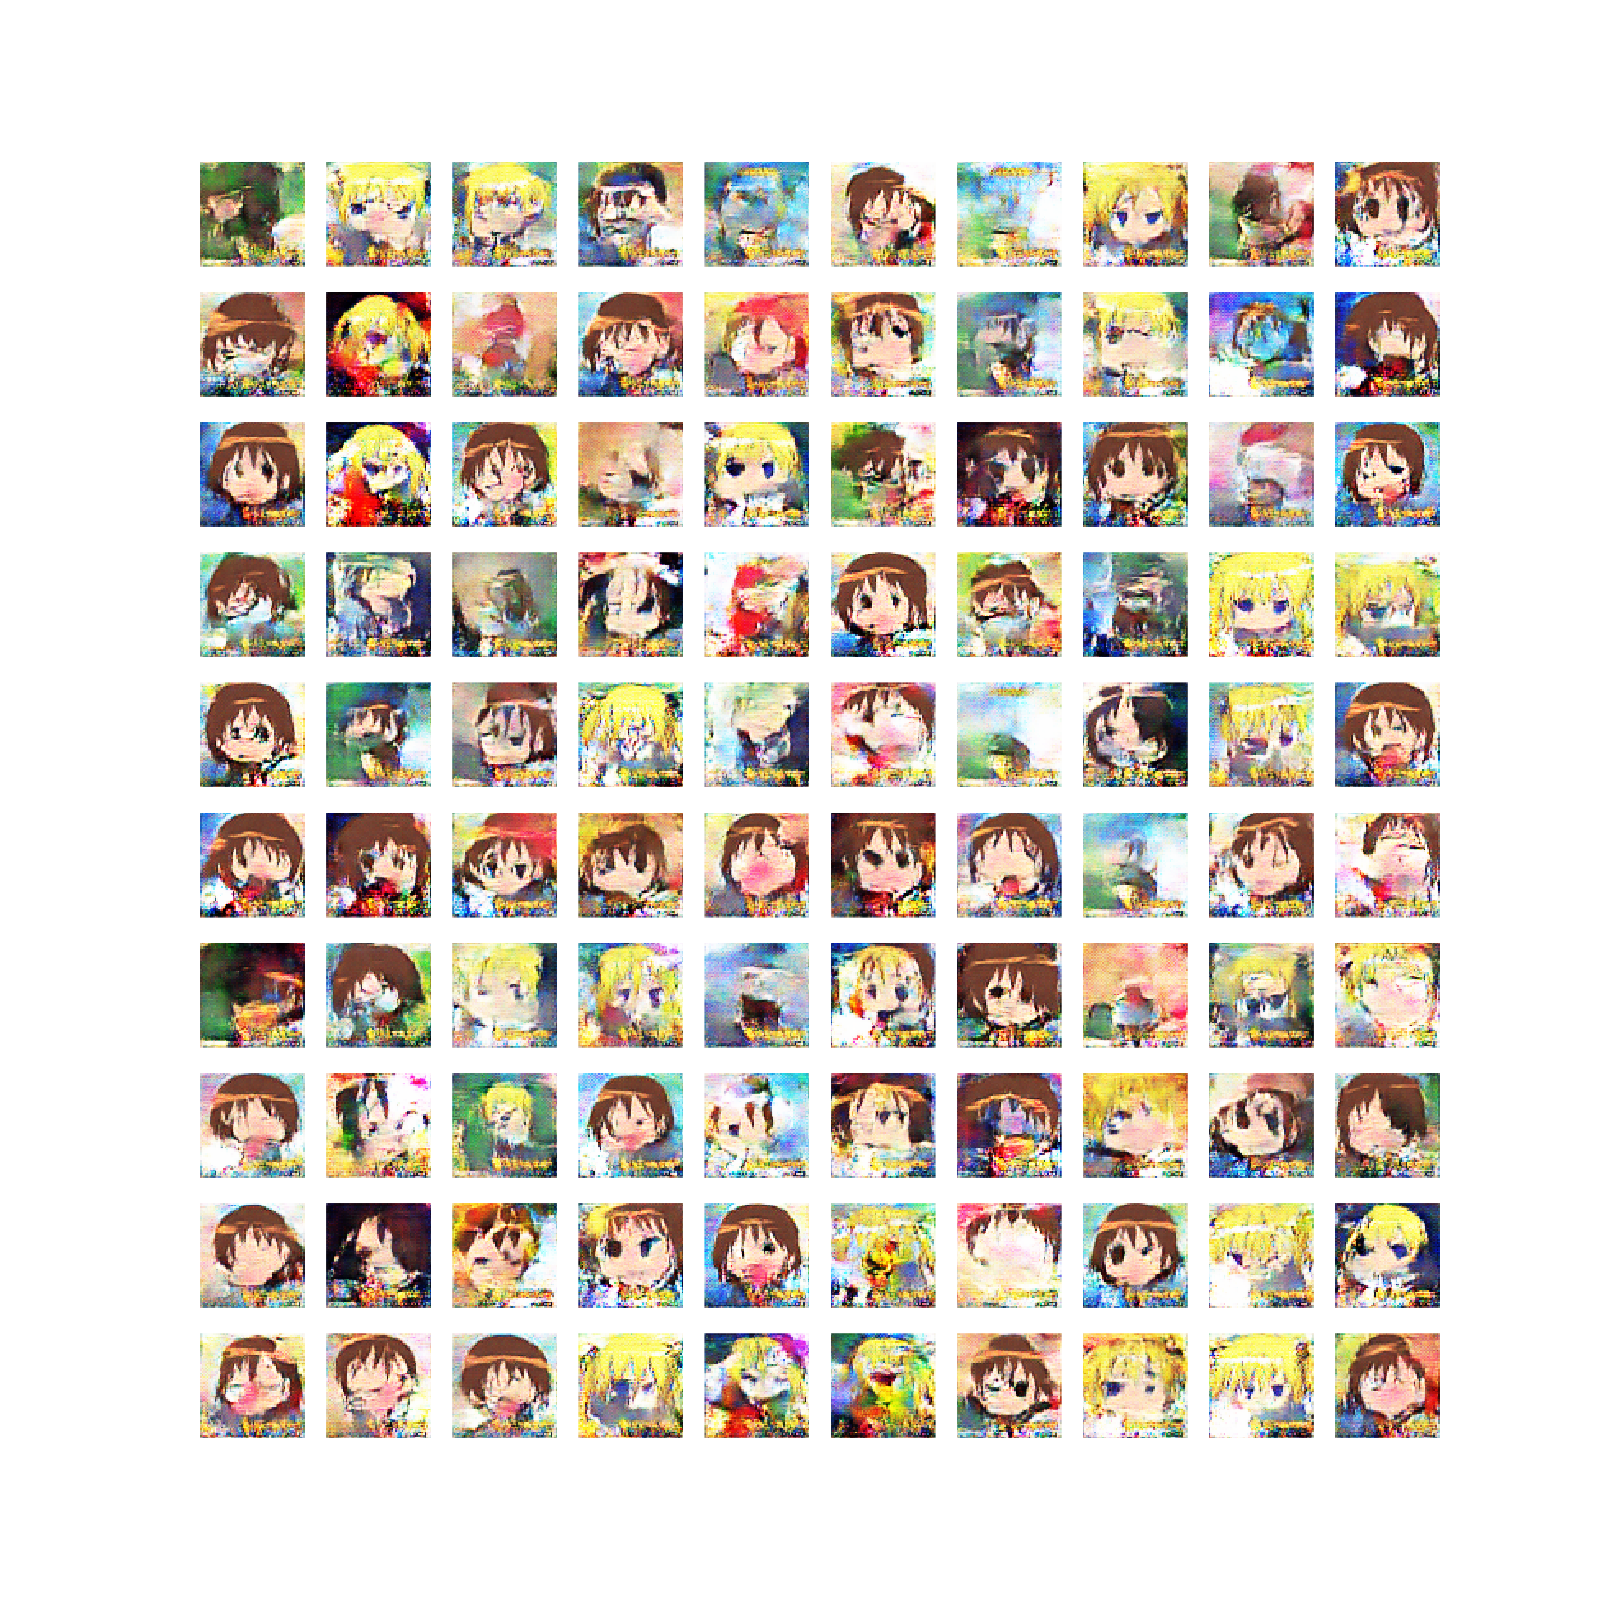
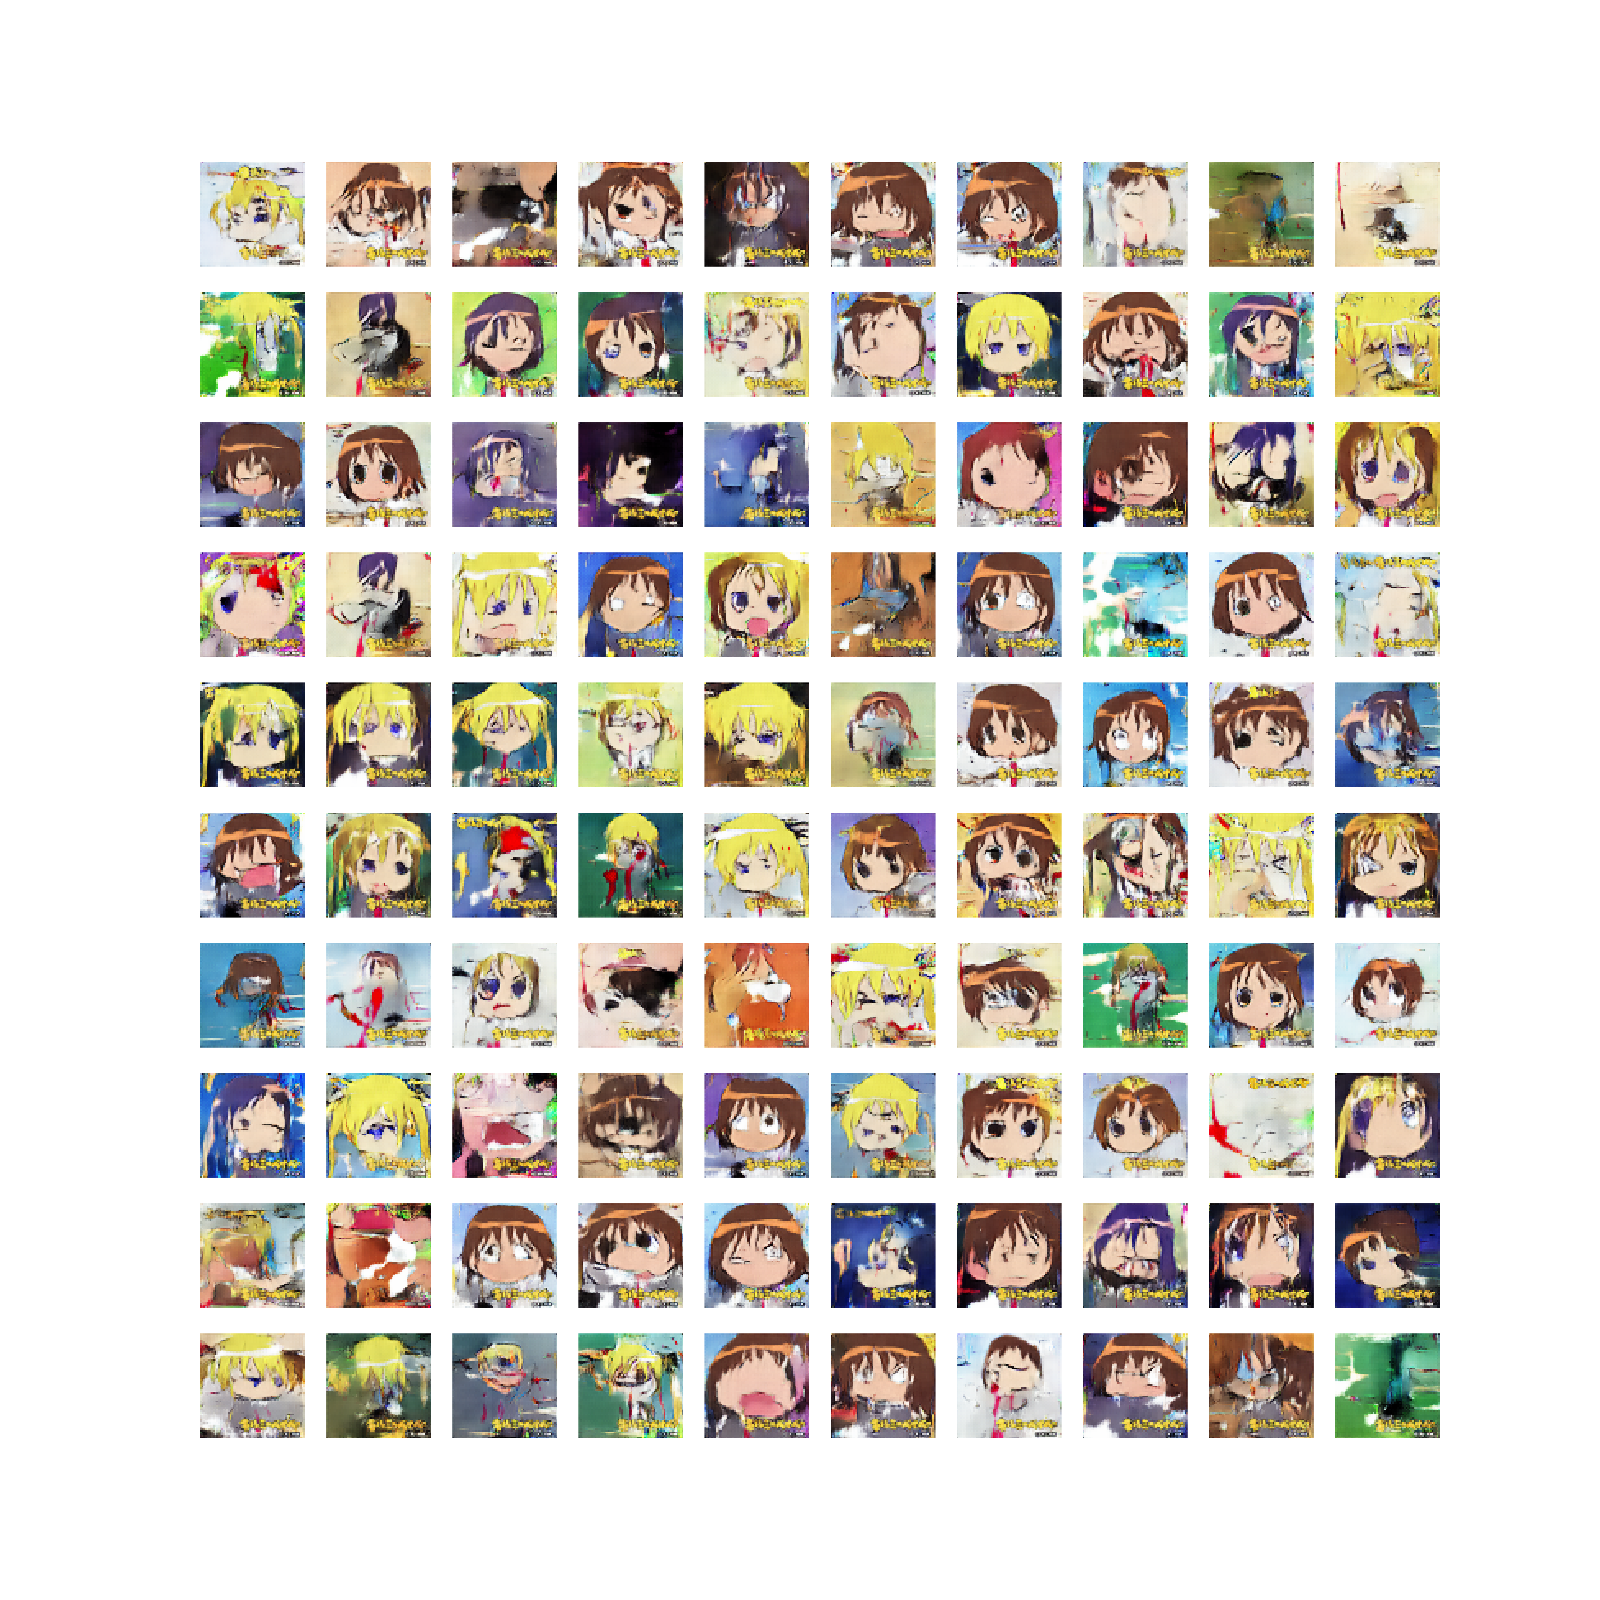
j

diff --git a/_posts/2016-10-28-Deep-Directed-Generative-Models-with-Energy-Based-Probability-Estimation.md b/_posts/2016-10-28-Deep-Directed-Generative-Models-with-Energy-Based-Probability-Estimation.md
@@ -175,8 +175,8 @@ $H(P_{\boldsymbol \Phi}(\boldsymbol x))$はエントロピーです。
 	- sigmoidでもいいかもしれない
 	- 活性化関数を通さなかったらどうなるかは実験していない
 - DGMの中間層の活性化関数はReLUでよい
-- DEMにBatch Normalizationを使うとDGMの学習に失敗することがある
-	- 訓練データの平均をとったようなものが出てくる（後述）
+- Batch Normalizationしてから活性化関数に通す
+- DGMの学習に失敗すると訓練データの平均をとったようなものが出てくる（後述）
 
 またエントロピーの計算ではBatch Normalizationのスケールパラメータを使うのですが、スケールにも誤差を逆伝播し値を更新する必要があります。
 
@@ -248,7 +248,13 @@ Adversarial AutoEncoderのときに使ったガウス混合分布と渦巻き型
 
 もう少し工夫すればうまくいきそうな気がします。
 
-ちなみにキルミーベイベーの学習でも局所解に落ちてしまった例を用意していたのですが、いつの間にかデータが消えていたので載せることができません。
+#### 学習失敗例
+
+![kb_fail](/images/post/2016-10-28/kb_fail.png)
+
+どのようなノイズ$\boldsymbol z$からも平均を取ったような画像が生成されます。
+
+たしかに平均画像を生成すればエネルギーをある程度は低くできるかもしれませんのでなかなか興味深いです。
 
 ## おわりに
 
